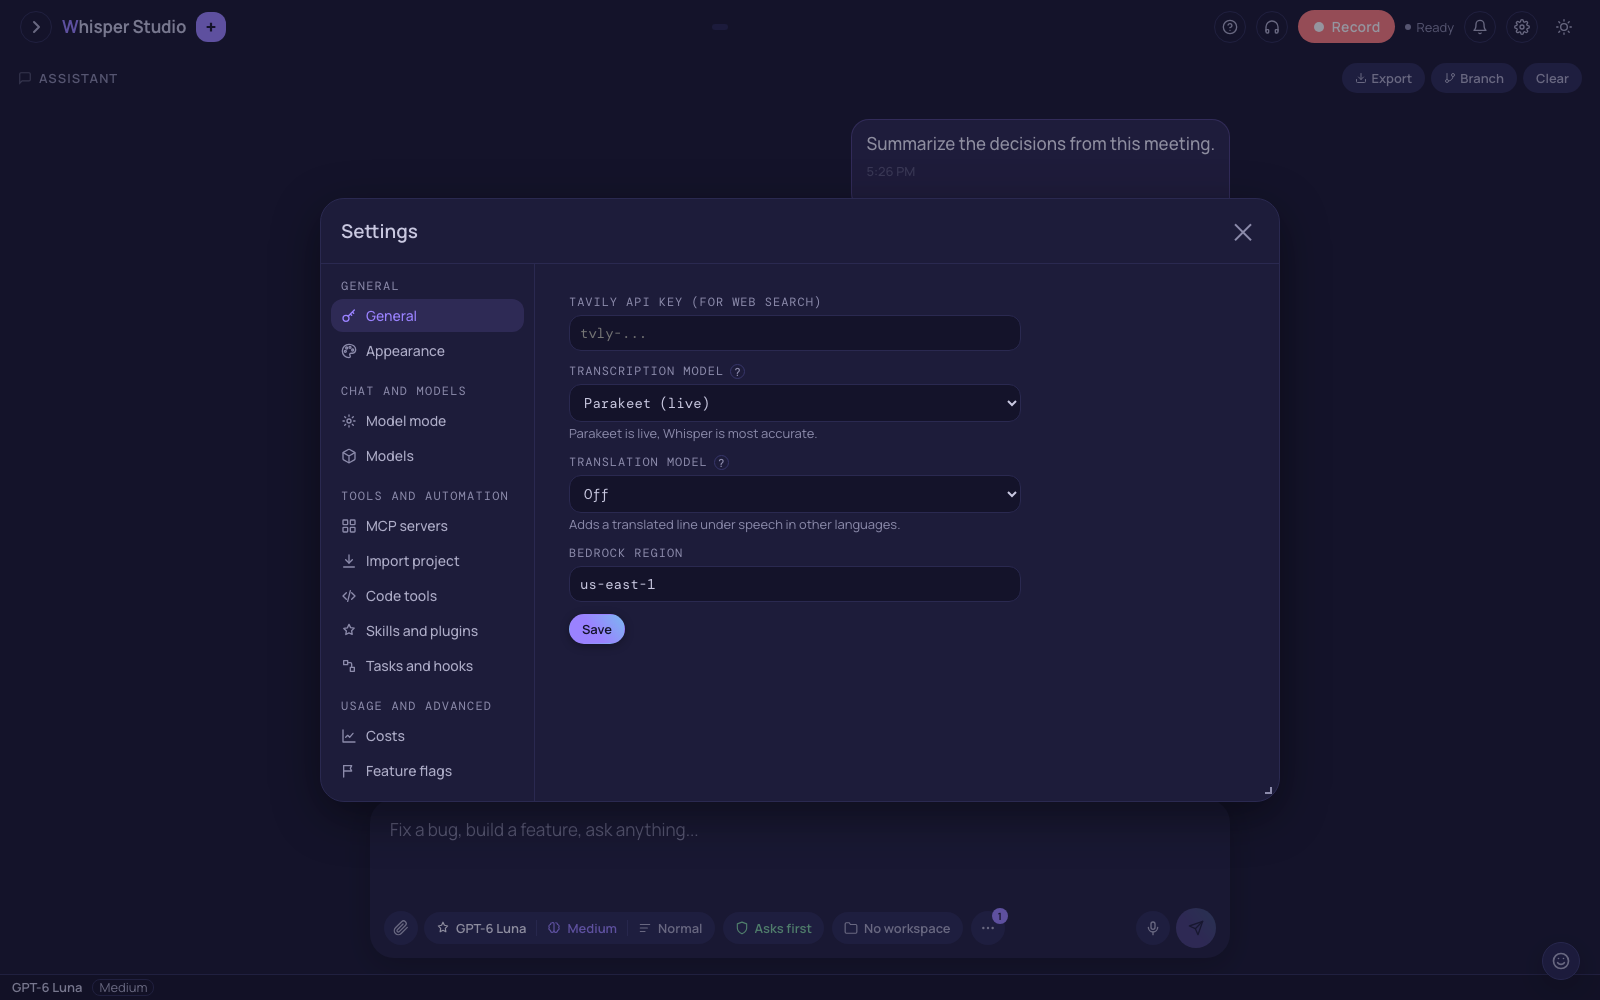
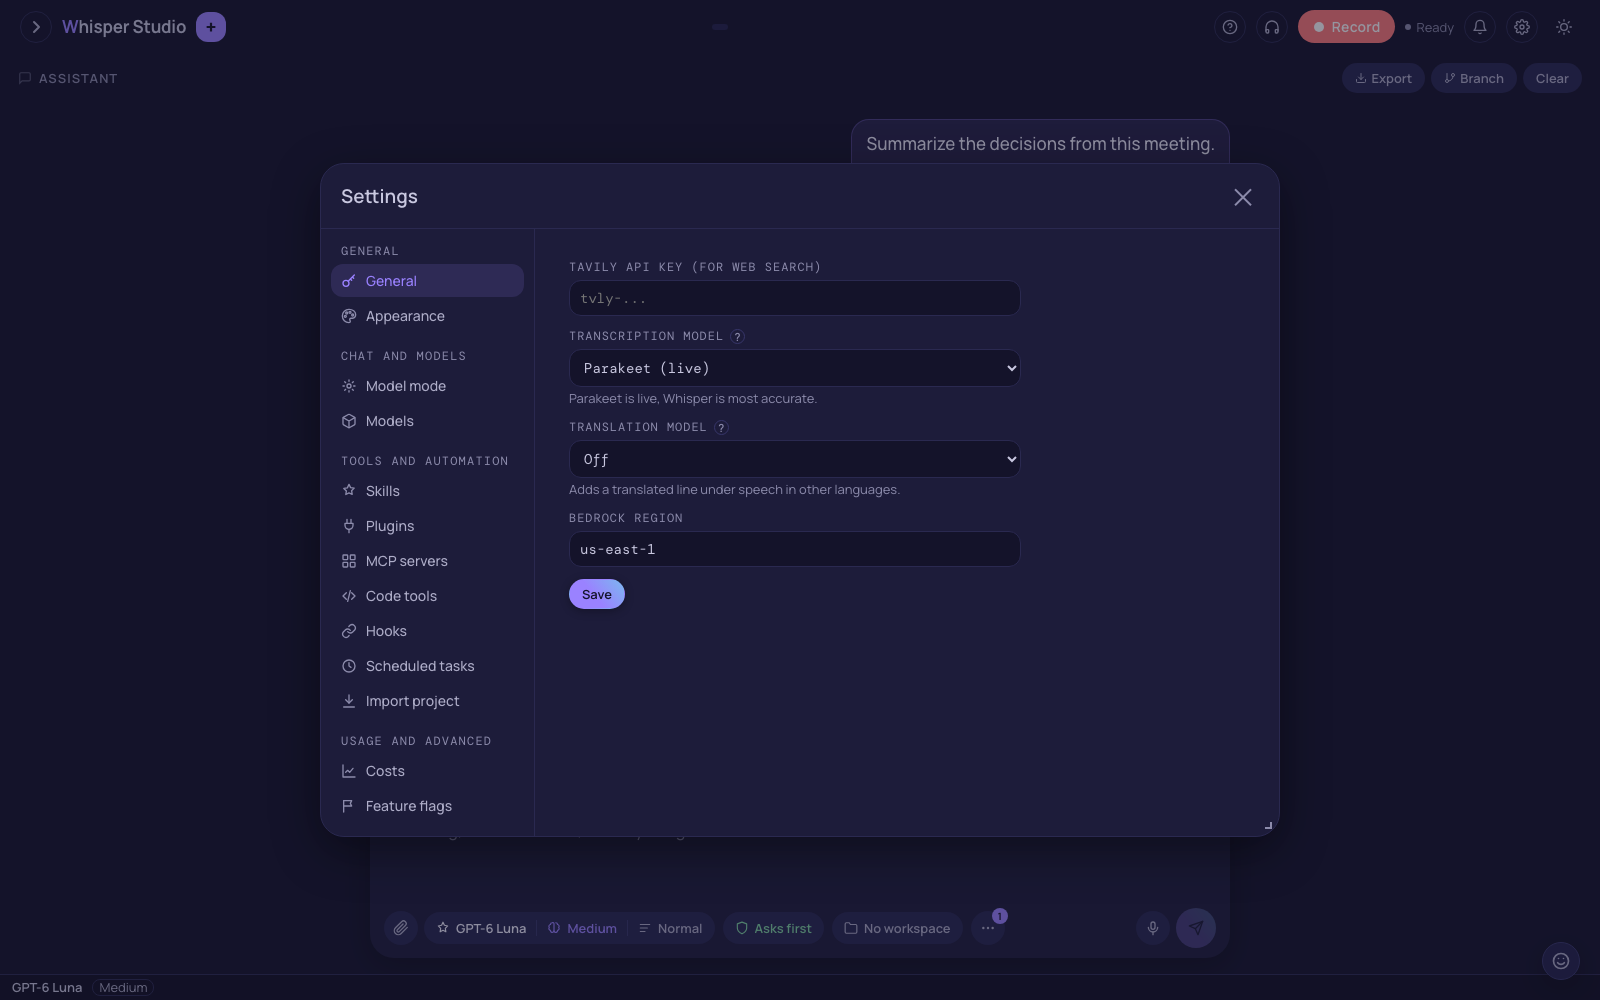
Give Skills, Plugins, Hooks and Scheduled tasks their own Settings entries

diff --git a/src/components/settings/SettingsModal.tsx b/src/components/settings/SettingsModal.tsx
@@ -62,7 +62,7 @@ export const SETTINGS_TABS: SettingsTab[] = [
 
 /* ────────────────────────────────────────────────────────────────────────
    Grouped left rail. Each rail item renders one or more panels under a
-   secondary sub-tab strip. Single-panel items (Model mode, MCP servers)
+   secondary sub-tab strip. Single-panel items (every item but Models)
    render their one panel with no sub-tab strip.
    ──────────────────────────────────────────────────────────────────────── */
 
@@ -70,11 +70,13 @@ type RailItemId =
   | 'general'
   | 'model-mode'
   | 'models'
+  | 'skills'
+  | 'plugins'
   | 'mcp'
-  | 'import'
   | 'code-tools'
-  | 'skills-plugins'
-  | 'workflows-tasks'
+  | 'hooks'
+  | 'cron'
+  | 'import'
   | 'appearance'
   | 'costs'
   | 'feature-flags';
@@ -157,18 +159,27 @@ const RAIL_GROUPS: RailGroup[] = [
   },
   {
     label: 'Tools and automation',
+    // What the assistant can use (skills, plugins, MCP servers, code tools),
+    // then what runs on its own (hooks around tool calls, scheduled tasks),
+    // then the one-time import that brings skills and MCP servers in.
     items: [
+      {
+        id: 'skills',
+        label: 'Skills',
+        icon: icon(<><path d="M12 2l2.4 4.9 5.4.8-3.9 3.8.9 5.4L12 14.8 7.2 17.3l.9-5.4L4.2 8.1l5.4-.8z" /></>),
+        subTabs: [{ id: 'skills', label: 'Skills', render: () => <SkillsPanel /> }],
+      },
+      {
+        id: 'plugins',
+        label: 'Plugins',
+        icon: icon(<><path d="M9 2v6M15 2v6" /><path d="M6 8h12v3a6 6 0 0 1-12 0z" /><path d="M12 17v5" /></>),
+        subTabs: [{ id: 'plugins', label: 'Plugins', render: () => <PluginsPanel /> }],
+      },
       {
         id: 'mcp',
         label: 'MCP servers',
         icon: icon(<><rect x="3" y="3" width="7" height="7" rx="1" /><rect x="14" y="3" width="7" height="7" rx="1" /><rect x="3" y="14" width="7" height="7" rx="1" /><rect x="14" y="14" width="7" height="7" rx="1" /></>),
         subTabs: [{ id: 'mcp', label: 'MCP servers', render: () => <MCPSettings /> }],
-      },
-      {
-        id: 'import',
-        label: 'Import project',
-        icon: icon(<><path d="M12 3v12" /><path d="M7 10l5 5 5-5" /><path d="M4 21h16" /></>),
-        subTabs: [{ id: 'import', label: 'Import project', render: () => <ImportPanel /> }],
       },
       {
         id: 'code-tools',
@@ -177,22 +188,22 @@ const RAIL_GROUPS: RailGroup[] = [
         subTabs: [{ id: 'code-tools', label: 'Code tools', render: () => <CodeToolsPanel /> }],
       },
       {
-        id: 'skills-plugins',
-        label: 'Skills and plugins',
-        icon: icon(<><path d="M12 2l2.4 4.9 5.4.8-3.9 3.8.9 5.4L12 14.8 7.2 17.3l.9-5.4L4.2 8.1l5.4-.8z" /></>),
-        subTabs: [
-          { id: 'skills', label: 'Skills', render: () => <SkillsPanel /> },
-          { id: 'plugins', label: 'Plugins', render: () => <PluginsPanel /> },
-        ],
+        id: 'hooks',
+        label: 'Hooks',
+        icon: icon(<><path d="M10 13a5 5 0 0 0 7.5.5l3-3a5 5 0 0 0-7-7l-1.7 1.7" /><path d="M14 11a5 5 0 0 0-7.5-.5l-3 3a5 5 0 0 0 7 7l1.7-1.7" /></>),
+        subTabs: [{ id: 'hooks', label: 'Hooks', render: () => <HooksPanel /> }],
       },
       {
-        id: 'workflows-tasks',
-        label: 'Tasks and hooks',
-        icon: icon(<><path d="M4 4h6v6H4zM14 14h6v6h-6z" /><path d="M10 7h4a2 2 0 0 1 2 2v5" /></>),
-        subTabs: [
-          { id: 'cron', label: 'Scheduled tasks', render: () => <CronPanel /> },
-          { id: 'hooks', label: 'Hooks', render: () => <HooksPanel /> },
-        ],
+        id: 'cron',
+        label: 'Scheduled tasks',
+        icon: icon(<><circle cx="12" cy="12" r="9" /><path d="M12 7v5l3 2" /></>),
+        subTabs: [{ id: 'cron', label: 'Scheduled tasks', render: () => <CronPanel /> }],
+      },
+      {
+        id: 'import',
+        label: 'Import project',
+        icon: icon(<><path d="M12 3v12" /><path d="M7 10l5 5 5-5" /><path d="M4 21h16" /></>),
+        subTabs: [{ id: 'import', label: 'Import project', render: () => <ImportPanel /> }],
       },
     ],
   },

diff --git a/src/components/settings/SettingsModal.test.tsx b/src/components/settings/SettingsModal.test.tsx
@@ -83,16 +83,26 @@ describe('SettingsModal — deep-link routing', () => {
     return render(<SettingsModal />);
   };
 
-  it('old id "skills" opens Tools and automation → Skills', () => {
-    openAt('skills');
-    // The merged panel renders under its sub-tab strip.
-    expect(screen.getByText('SkillsPanel')).toBeInTheDocument();
-    // The rail item that owns it is the active section.
-    expect(
-      screen.getByRole('button', { name: /Skills and plugins/i }),
-    ).toHaveAttribute('aria-current', 'page');
-    // The Skills sub-tab is the selected tab.
-    expect(screen.getByRole('tab', { name: 'Skills' })).toHaveAttribute('aria-selected', 'true');
+  it('"skills", "plugins", "hooks" and "cron" each open their own panel', () => {
+    for (const [id, panel, label] of [
+      ['skills', 'SkillsPanel', 'Skills'],
+      ['plugins', 'PluginsPanel', 'Plugins'],
+      ['hooks', 'HooksPanel', 'Hooks'],
+      ['cron', 'CronPanel', 'Scheduled tasks'],
+    ] as const) {
+      const { unmount } = openAt(id);
+      expect(screen.getByText(panel)).toBeInTheDocument();
+      expect(screen.getByRole('button', { name: label })).toHaveAttribute('aria-current', 'page');
+      expect(screen.queryAllByRole('tab')).toHaveLength(0);
+      unmount();
+    }
+  });
+
+  it('keeps related tools together: what the assistant uses, then what runs on its own', () => {
+    openAt('general');
+    const group = screen.getByRole('group', { name: 'Tools and automation' });
+    const items = [...group.querySelectorAll('.settings-rail-item')].map((b) => b.textContent?.trim());
+    expect(items).toEqual(['Skills', 'Plugins', 'MCP servers', 'Code tools', 'Hooks', 'Scheduled tasks', 'Import project']);
   });
 
   it('"costs" opens Costs as its own panel with no sub-tab strip', () => {
@@ -107,15 +117,6 @@ describe('SettingsModal — deep-link routing', () => {
     expect(screen.getByText('FeatureFlagsPanel')).toBeInTheDocument();
     expect(screen.getByRole('button', { name: 'Feature flags' })).toHaveAttribute('aria-current', 'page');
     expect(screen.queryAllByRole('tab')).toHaveLength(0);
-  });
-
-  it('old id "hooks" opens Tasks and hooks → Hooks', () => {
-    openAt('hooks');
-    expect(screen.getByText('HooksPanel')).toBeInTheDocument();
-    expect(
-      screen.getByRole('button', { name: /Tasks and hooks/i }),
-    ).toHaveAttribute('aria-current', 'page');
-    expect(screen.getByRole('tab', { name: 'Hooks' })).toHaveAttribute('aria-selected', 'true');
   });
 
   it('"general" opens the General panel first in the rail', () => {
@@ -161,13 +162,11 @@ describe('SettingsModal — deep-link routing', () => {
 
   it('clicking a rail item then a sub-tab swaps the visible panel', () => {
     openAt('general');
-    // Jump to the Skills and plugins section via the rail.
-    fireEvent.click(screen.getByRole('button', { name: /Skills and plugins/i }));
-    expect(screen.getByText('SkillsPanel')).toBeInTheDocument();
-    // Switch to the Plugins sub-tab.
-    fireEvent.click(screen.getByRole('tab', { name: 'Plugins' }));
-    expect(screen.getByText('PluginsPanel')).toBeInTheDocument();
-    expect(screen.getByRole('tab', { name: 'Plugins' })).toHaveAttribute('aria-selected', 'true');
+    // Jump to Models via the rail, then to its Discover sub-tab.
+    fireEvent.click(screen.getByRole('button', { name: 'Models' }));
+    expect(screen.getByRole('tab', { name: 'Chat' })).toHaveAttribute('aria-selected', 'true');
+    fireEvent.click(screen.getByRole('tab', { name: 'Discover' }));
+    expect(screen.getByRole('tab', { name: 'Discover' })).toHaveAttribute('aria-selected', 'true');
   });
 });
 

diff --git a/docs/configuration.html b/docs/configuration.html
@@ -187,11 +187,13 @@ source ~/.zshrc</code></pre></div>
         <tr><td>Appearance</td><td>-</td><td>The theme and its color palette.</td></tr>
         <tr><td rowspan="2"><b>Chat and models</b></td><td>Model mode</td><td>-</td><td>The <code>cloud</code> / <code>hybrid</code> / <code>local</code> dial and, in hybrid, one backend picker per capability.</td></tr>
         <tr><td>Models</td><td>Chat, Discover, Transcription, Indexing</td><td>The chat-model catalog and its visibility toggles, the on-device model browser, and the speech and index weights you have on disk.</td></tr>
-        <tr><td rowspan="5"><b>Tools and automation</b></td><td>MCP servers</td><td>-</td><td>Local stdio and remote HTTP MCP servers.</td></tr>
-        <tr><td>Import project</td><td>-</td><td>Migrate a Claude Code or Codex CLI project (see below).</td></tr>
+        <tr><td rowspan="7"><b>Tools and automation</b></td><td>Skills</td><td>-</td><td>Your skill folders.</td></tr>
+        <tr><td>Plugins</td><td>-</td><td>Opt-in Python plugins.</td></tr>
+        <tr><td>MCP servers</td><td>-</td><td>Local stdio and remote HTTP MCP servers.</td></tr>
         <tr><td>Code tools</td><td>-</td><td>Each linter and language server the app runs (ruff, pylsp, the workspace's ESLint, typescript-language-server): what it powers, whether it works for the connected workspace, its version, and why not.</td></tr>
-        <tr><td>Skills and plugins</td><td>Skills, Plugins</td><td>Your skill folders and opt-in Python plugins.</td></tr>
-        <tr><td>Tasks and hooks</td><td>Scheduled tasks, Hooks</td><td>Cron jobs and the Pre/Post/Stop tool hooks.</td></tr>
+        <tr><td>Hooks</td><td>-</td><td>The Pre/Post/Stop tool hooks.</td></tr>
+        <tr><td>Scheduled tasks</td><td>-</td><td>Cron jobs.</td></tr>
+        <tr><td>Import project</td><td>-</td><td>Migrate a Claude Code or Codex CLI project (see below).</td></tr>
         <tr><td rowspan="2"><b>Usage and advanced</b></td><td>Costs</td><td>-</td><td>Usage and estimated cost over a range of UTC days, the spend caps, and the round and time limits.</td></tr>
         <tr><td>Feature flags</td><td>-</td><td>The gated features.</td></tr>
       </tbody>

diff --git a/docs/tut-skills.html b/docs/tut-skills.html
@@ -58,7 +58,7 @@
       You do not enable them. Ask for the result, and the model selects the tool. Refer to
       <a href="ref-tools.html#builtin-tools">Agent tools → Built-in core tools</a>.</p>
     <p>The skills below are the bundled set. They load when they match the request. You can edit,
-      rename, disable, or delete them in "Settings", "Skills and plugins", "Skills", as your own
+      rename, disable, or delete them in "Settings", "Skills", as your own
       skills.</p>
     <div class="table-wrap"><table>
       <thead><tr><th>Skill</th><th>Function</th><th>Example request</th></tr></thead>
@@ -92,7 +92,7 @@
       trace. Thus, a skill does not run without a record.</p>
 
     <h2 id="managing">Enable and disable skills</h2>
-    <p>"Settings", "Skills and plugins", "Skills" lists each skill. You can enable or disable each
+    <p>"Settings", "Skills" lists each skill. You can enable or disable each
       skill and read its definition. When you disable a skill, the app removes it from the
       catalog, and Claude cannot select it.</p>
     <p>The app keeps the on and off state in <code class="path">skills_config.json</code> in the

diff --git a/docs/ref-settings.html b/docs/ref-settings.html
@@ -43,9 +43,9 @@
     <h2 id="fields">Settings-panel fields</h2>
     <p>Open the panel with the gear icon in the top bar. The panels sit in a grouped rail rather than
       one flat list: <b>General</b> (General; Appearance), <b>Chat and models</b> (Model mode; Models,
-      with Chat / Discover / Transcription / Indexing sub-tabs), <b>Tools and automation</b> (MCP
-      servers; Import project; Code tools; Skills and plugins; Tasks and hooks, holding Scheduled
-      tasks and Hooks), and <b>Usage and advanced</b> (Costs; Feature flags). The permission mode is
+      with Chat / Discover / Transcription / Indexing sub-tabs), <b>Tools and automation</b> (Skills;
+      Plugins; MCP servers; Code tools; Hooks; Scheduled tasks; Import project), and <b>Usage and
+      advanced</b> (Costs; Feature flags). The permission mode is
       not in Settings: select it with the permission mode chip in the composer. Each row below is
       one control:</p>
     <div class="table-wrap"><table>

diff --git a/docs/tut-cron.html b/docs/tut-cron.html
@@ -156,7 +156,7 @@
       job runs when its interval is complete after its last run.</p>
 
     <h2 id="managing-jobs">Control jobs in the scheduled tasks panel</h2>
-    <p>To see all your jobs, open "Settings", then "Tasks and hooks", then "Scheduled tasks". The
+    <p>To see all your jobs, open "Settings", then "Scheduled tasks". The
       panel lists each job with its schedule, its next run, and a status chip. The chips are
       "Active", "Paused", "Running…", "Stopped", "Error", and "Orphaned".</p>
     <div class="card-grid">

diff --git a/docs/tut-mcp-plugins.html b/docs/tut-mcp-plugins.html
@@ -213,7 +213,7 @@ def register(app, executor_registry):
       </li>
       <li>
         <h4>Enable the plugin</h4>
-        <p>Open "Settings", then "Skills and plugins", then "Plugins". Enable your plugin. You
+        <p>Open "Settings", then "Plugins". Enable your plugin. You
           enable each plugin separately.</p>
       </li>
       <li>
